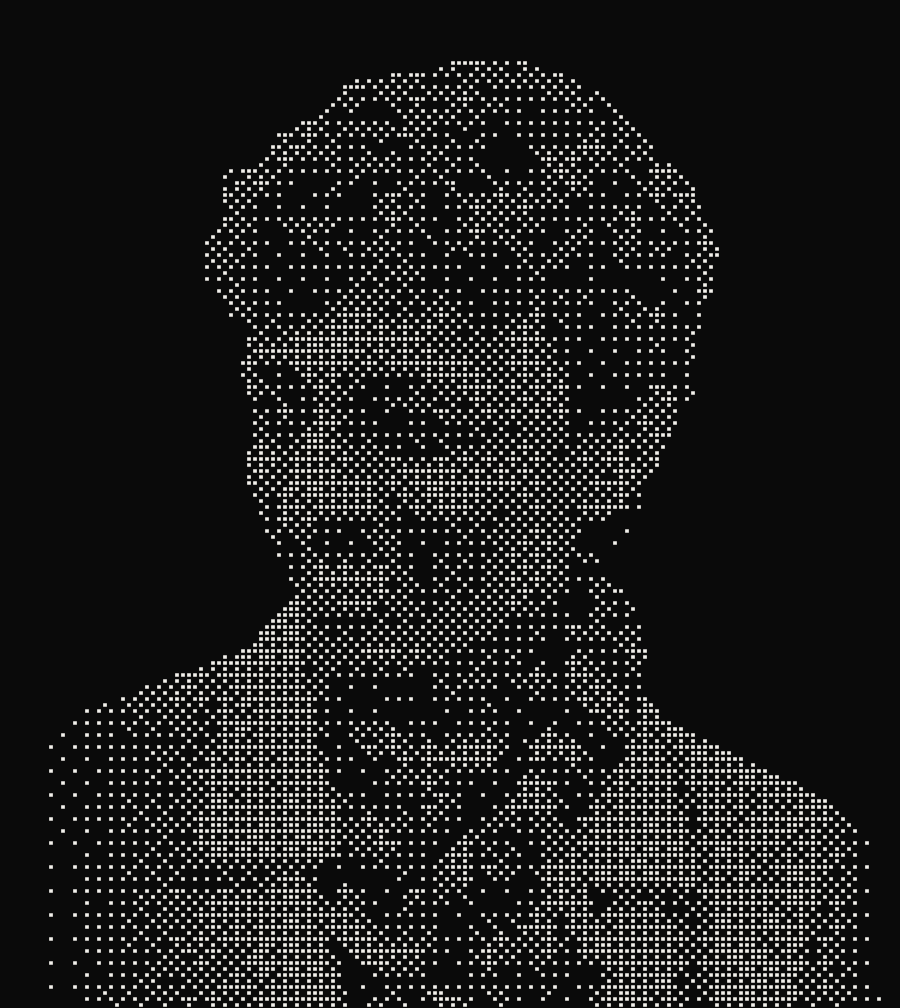
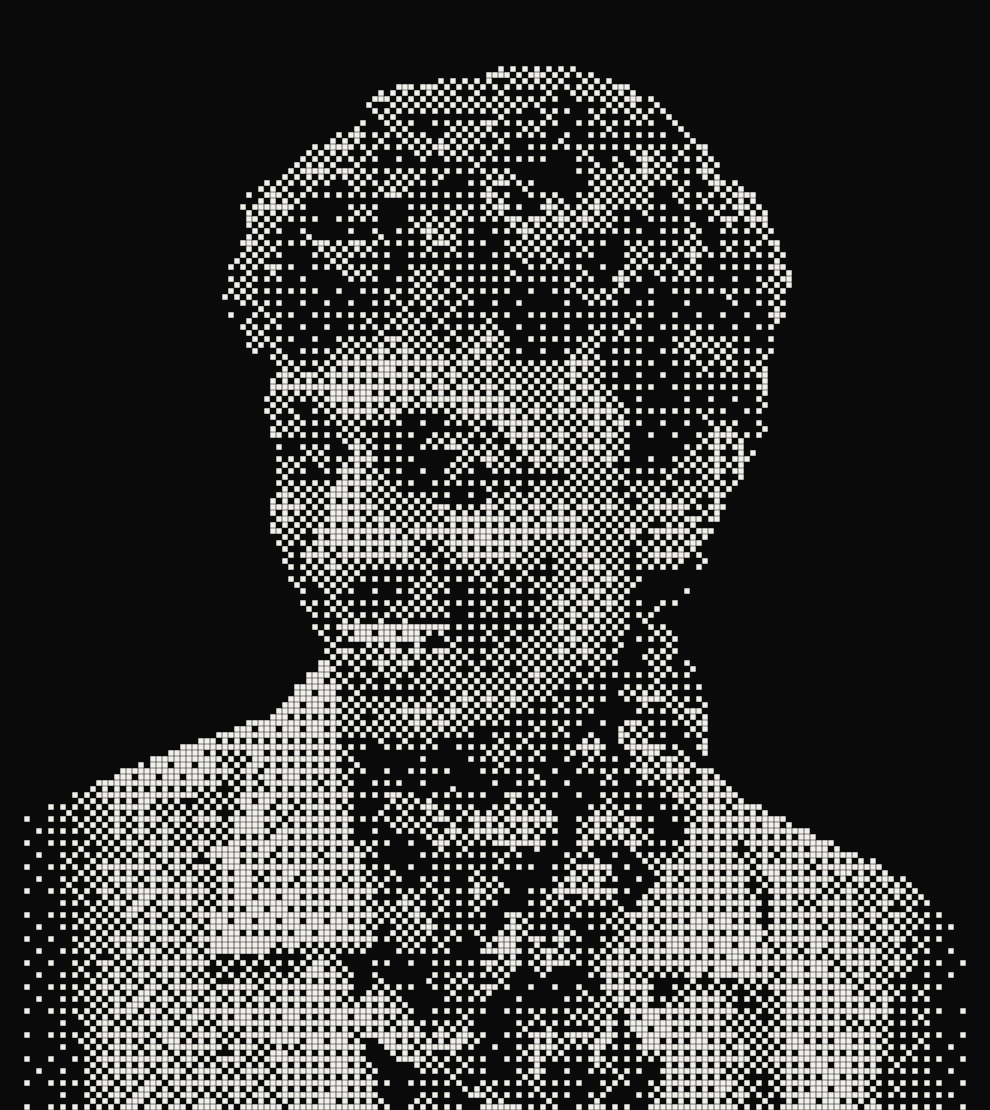
Portrait: exact panel-B dither (165 cells, near-touching squares), solid name, finer mobile cells

diff --git a/js/portrait.js b/js/portrait.js
@@ -18,7 +18,7 @@ export function setPortraitY(y) { mobileY = y; if (live && box && box.mobile && 
 /* where the portrait sits, in CSS px of the viewport (plain = in the document flow, size only) */
 export function portraitBox(W, H, plain = false) {
   const mobile = W <= 760;
-  const cols = mobile ? 80 : 150, rows = Math.round(cols * SRC_H / SRC_W);
+  const cols = mobile ? 100 : 165, rows = Math.round(cols * SRC_H / SRC_W);
   const pad = Math.max(20, Math.min(44, W * 0.031));
   let w, x = 0, y = 0;
   if (plain) w = mobile ? Math.min(W * 0.62, 300) : Math.min(W * 0.4, 520);
@@ -60,7 +60,7 @@ function buildGrid(cols, rows, img, bleed = false) {
   const L = new Float32Array(cols * rows), A = new Float32Array(cols * rows);
   for (let j = 0; j < rows; j++) for (let i = 0; i < cols; i++) { let sl = 0, sa = 0; for (let v = 0; v < S; v++) for (let u = 0; u < S; u++) { const q = (j * S + v) * cw + i * S + u; sl += t[q] * a[q]; sa += a[q]; }
     const q = j * cols + i; A[q] = sa / (S * S); L[q] = sa > 0 ? sl / sa : 0;
-    const ex = Math.min(i / (cols * 0.3), (cols - 1 - i) / (cols * 0.1), bleed ? 9 : (rows - 1 - j) / (rows * 0.12));
+    const ex = Math.min(i / (cols * 0.15), (cols - 1 - i) / (cols * 0.15), bleed ? 9 : (rows - 1 - j) / (rows * 0.15));
     if (ex < 1) { const e = smooth(ex); L[q] *= e; if (e < 0.04) A[q] = 0; } }
   const m = cols * rows, hash = new Float32Array(m), ang = new Float32Array(m), thr = new Float32Array(m), vis = new Uint8Array(m);
   let seed = 7; const rnd = () => { seed = (seed * 1664525 + 1013904223) >>> 0; return seed / 4294967296; };
@@ -107,7 +107,7 @@ function layout() {
 /* one frame. 1-bit ordered dither: a cell is a solid square (0.62 of the cell) when its tone beats the Bayer 4x4 threshold.
    dev = develop progress 0..1, sc = scatter 0..1, interactive = false draws the plain static render */
 function draw(dev, sc, t, interactive, blinking, cv = canvas, c2 = ctx, grid = G) {
-  const { cols, rows, n, L, hash, ang, thr, list } = grid, cw = cv.width / cols, chh = cv.height / rows, sq = cw * 0.62;
+  const { cols, rows, n, L, hash, ang, thr, list } = grid, cw = cv.width / cols, chh = cv.height / rows, sq = cw - 0.6 * dpr;
   c2.setTransform(1, 0, 0, 1, 0, 0); c2.clearRect(0, 0, cv.width, cv.height);
   c2.fillStyle = FG; c2.strokeStyle = FG; c2.lineCap = 'round'; c2.lineWidth = Math.max(1, cw * 0.2);
   const blinkMid = blinking ? new Map() : null;
@@ -163,7 +163,7 @@ function buildScreen(cols, rows, cell) {
     const d = x.getImageData(0, 0, cv.width, cv.height).data, W3 = cv.width;
     for (let r = 0; r < rows; r++) for (let c = 0; c < cols; c++) {
       let s = 0; for (let v = 0; v < S; v++) for (let u = 0; u < S; u++) s += d[((r * S + v) * W3 + c * S + u) * 4 + 3];
-      const cov = s / (S * S * 255); if (cov > 0.3) { const q = r * cols + c; L[q] = cov > 0.7 ? 1 : cov; A[q] = 1; }
+      const cov = s / (S * S * 255); if (cov > 0.3) { const q = r * cols + c; L[q] = 1; A[q] = 1; }
     }
   }
   const hash = new Float32Array(n), ang = new Float32Array(n), thr = new Float32Array(n), vis = new Uint8Array(n);
@@ -235,7 +235,7 @@ async function startStatic() {
 
 /* a PNG of the halftone for the no-JS <img>: window.__portraitPNG(cellPx) -> data URL */
 window.__portraitPNG = async cell => {
-  const im = await IMG_P, cols = 150, rows = Math.round(cols * SRC_H / SRC_W), g = buildGrid(cols, rows, im, true), cv = document.createElement('canvas');
+  const im = await IMG_P, cols = 165, rows = Math.round(cols * SRC_H / SRC_W), g = buildGrid(cols, rows, im, true), cv = document.createElement('canvas');
   cv.width = cols * cell; cv.height = rows * cell; const c = cv.getContext('2d'); c.fillStyle = '#0A0A0A'; c.fillRect(0, 0, cv.width, cv.height);
   draw(1, 0, 0, false, false, cv, c, g); const o = document.createElement('canvas'); o.width = cv.width; o.height = cv.height;
   const oc = o.getContext('2d'); oc.fillStyle = '#0A0A0A'; oc.fillRect(0, 0, o.width, o.height); oc.drawImage(cv, 0, 0);

diff --git a/index.html b/index.html
@@ -219,7 +219,7 @@
 <main id="top">
   <div id="stage">
     <section class="hero" aria-label="Introduction">
-      <img class="portrait-img" id="portrait-img" src="assets/portrait-glyphs.png" width="900" height="1008" alt="Sibhimanyu, drawn in dots and crosses" />
+      <img class="portrait-img" id="portrait-img" src="assets/portrait-glyphs.png" width="990" height="1110" alt="Sibhimanyu, drawn in dots and crosses" />
       <canvas id="portrait" role="img" aria-label="Sibhimanyu, drawn in dots and crosses"></canvas>
       <h1>Sibhimanyu</h1>
       <div class="hero-ov">
